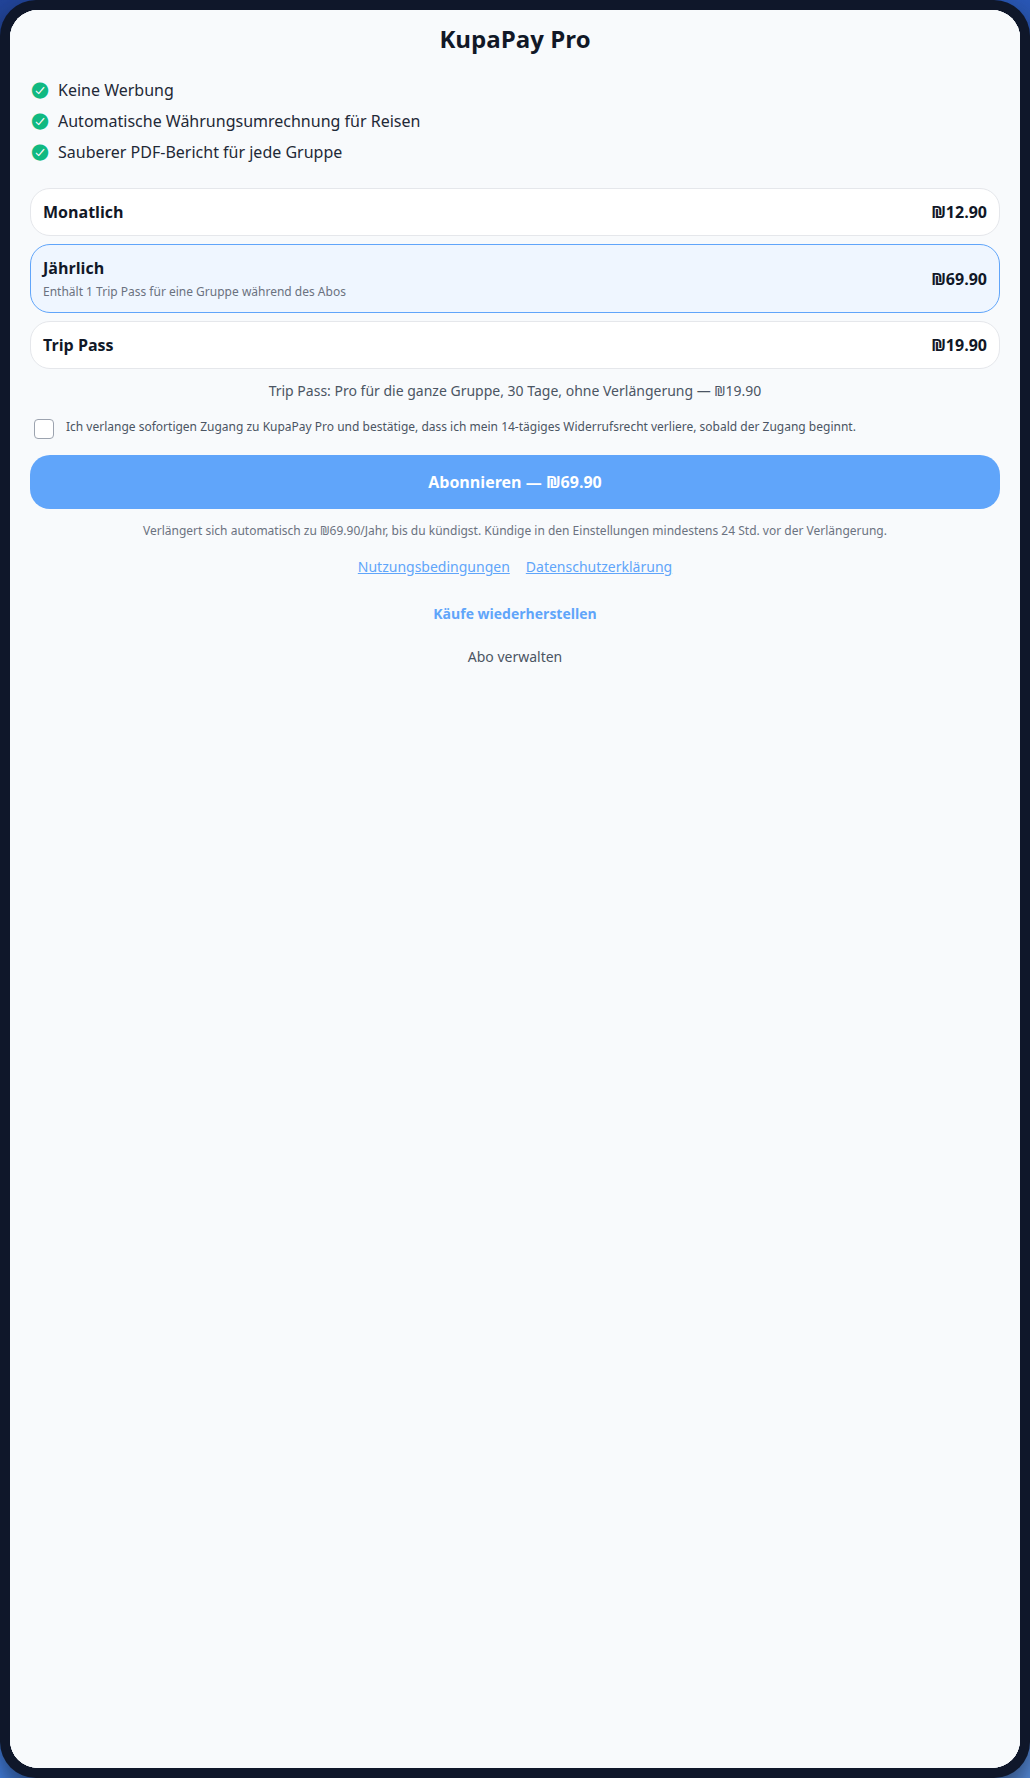
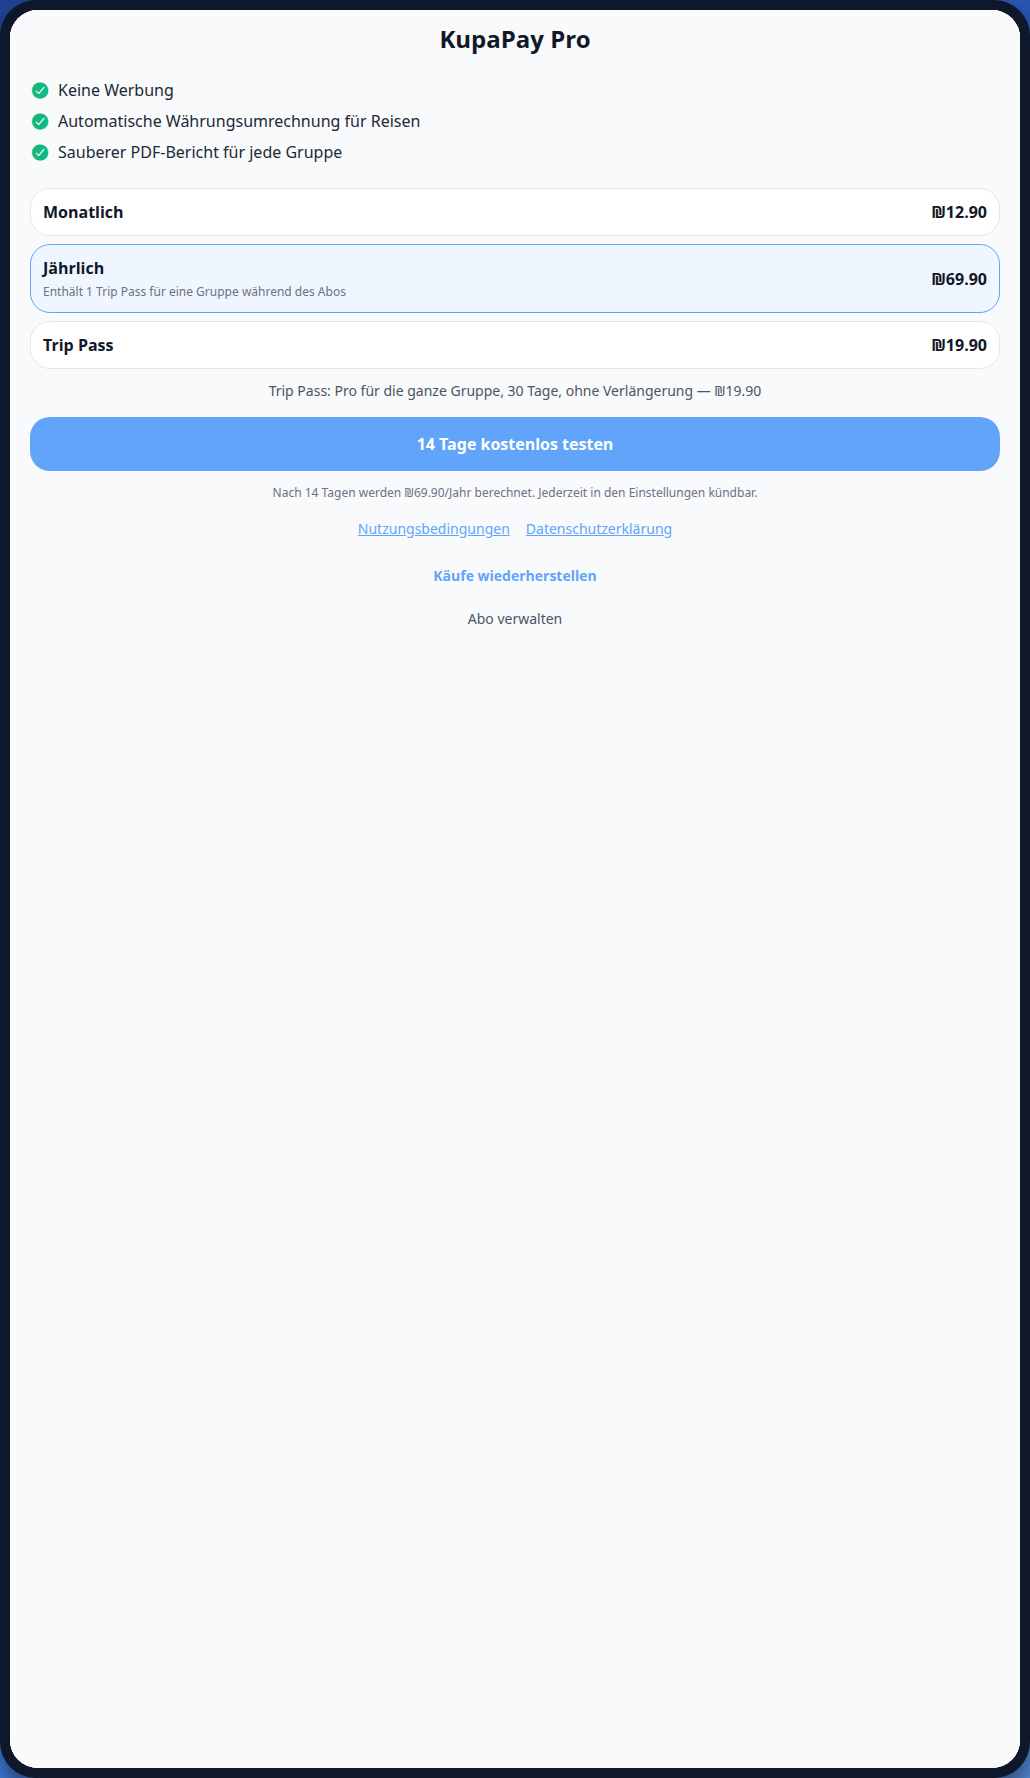
feat(pro): 14-day trial, remove EU waiver; ASC intro offers
- Paywall: drop EU withdrawal checkbox; CTA always enabled when offerings load
- Trial copy uses {{days}} from introPrice with 14-day fallback
- ASC workflow: asc-set-subscription-intro-offers.mjs (TWO_WEEKS FREE_TRIAL)
- Update iap-metadata review notes, whats-new, paywall review PNGs
- Docs: Play 14-day base-plan note in KUPAPAY_PRO_SETUP.md

Changed region(s): [[0.0311, 0.2165, 0.9942, 0.3712]]

diff --git a/cost-share-app/apps/mobile/components/pro/ProPaywallContent.tsx b/cost-share-app/apps/mobile/components/pro/ProPaywallContent.tsx
@@ -28,7 +28,7 @@ import {
     restorePurchases,
     type IntroEligibilityMap,
 } from '../../services/purchases.service';
-import { planShowsFreeTrial } from '../../lib/proTrialPaywall';
+import { introFreeTrialDaysForPackage, planShowsFreeTrial } from '../../lib/proTrialPaywall';
 import {
     fetchPaywallOfferings,
     reportPaywallLoadFailed,
@@ -82,8 +82,6 @@ export function ProPaywallContent({
     const [introEligibility, setIntroEligibility] = useState<IntroEligibilityMap | null>(null);
     const [loadFailedReason, setLoadFailedReason] = useState<PaywallLoadFailureReason | null>(null);
     const [loadAttempt, setLoadAttempt] = useState(0);
-    const [euDigitalAck, setEuDigitalAck] = useState(false);
-
     useEffect(() => {
         void logMonetizationEvent(featureKey, 'paywall_viewed');
         void captureProductEvent('paywall_viewed', { feature_key: featureKey, group_id: groupId ?? null });
@@ -190,6 +188,11 @@ export function ProPaywallContent({
         subscriptionPlanKey != null &&
         planShowsFreeTrial(subscriptionPlanKey, packages, introEligibility);
 
+    const trialDays = useMemo(() => {
+        if (!showFreeTrial || !selectedPackage) return null;
+        return introFreeTrialDaysForPackage(selectedPackage);
+    }, [selectedPackage, showFreeTrial]);
+
     const disclosureText = useMemo(() => {
         if (loadFailedReason) {
             return '';
@@ -199,11 +202,11 @@ export function ProPaywallContent({
         }
         const price = priceLabel(selectedPackage);
         const period = t(subscriptionPeriodKey(selectedPackage));
-        if (showFreeTrial) {
-            return t('pro.paywall.trialRenewalDisclosure', { price, period });
+        if (showFreeTrial && trialDays != null) {
+            return t('pro.paywall.trialRenewalDisclosure', { price, period, days: trialDays });
         }
         return t('pro.paywall.renewalDisclosure', { price, period });
-    }, [loadFailedReason, selected, selectedPackage, showFreeTrial, t]);
+    }, [loadFailedReason, selected, selectedPackage, showFreeTrial, t, trialDays]);
 
     const purchaseCta = useMemo(() => {
         if (!selectedPackage) return t('pro.paywall.subscribe');
@@ -211,11 +214,11 @@ export function ProPaywallContent({
         if (selected === 'trip_pass') {
             return t('pro.paywall.buyTripPass', { price });
         }
-        if (showFreeTrial) {
-            return t('pro.paywall.tryFreeTrialCta');
+        if (showFreeTrial && trialDays != null) {
+            return t('pro.paywall.tryFreeTrialCta', { days: trialDays });
         }
         return t('pro.paywall.subscribeAtPrice', { price });
-    }, [selected, selectedPackage, showFreeTrial, t]);
+    }, [selected, selectedPackage, showFreeTrial, t, trialDays]);
 
     const planPickerSection = useMemo(() => {
         if (loading) {
@@ -320,33 +323,13 @@ export function ProPaywallContent({
             {planPickerSection}
 
             <Pressable
-                onPress={() => setEuDigitalAck(v => !v)}
-                className="flex-row items-start gap-3 mb-4 px-1"
-                testID="paywall-eu-withdrawal-ack"
-                accessibilityRole="checkbox"
-                accessibilityState={{ checked: euDigitalAck }}
-            >
-                <View
-                    className={`mt-0.5 h-5 w-5 rounded border items-center justify-center ${euDigitalAck ? 'bg-primary border-primary' : 'border-gray-400 bg-white'}`}
-                >
-                    {euDigitalAck ? (
-                        <AppIcon name="checkmark" size={14} color="#fff" />
-                    ) : null}
-                </View>
-                <Text className="flex-1 text-xs text-gray-600 leading-5">
-                    {t('pro.paywall.euDigitalPurchaseAck')}
-                </Text>
-            </Pressable>
-
-            <Pressable
                 onPress={handlePurchase}
                 disabled={
                     busy ||
                     !storeConfigured ||
                     !selectedPackage ||
                     loading ||
-                    !!loadFailedReason ||
-                    !euDigitalAck
+                    !!loadFailedReason
                 }
                 className="bg-primary rounded-2xl py-4 items-center mb-3"
                 testID="paywall-purchase-btn"

diff --git a/cost-share-app/apps/mobile/__tests__/components/ProPaywallContent.test.tsx b/cost-share-app/apps/mobile/__tests__/components/ProPaywallContent.test.tsx
@@ -47,7 +47,11 @@ const purchaseMock = purchasePackage as jest.MockedFunction<typeof purchasePacka
 
 const mockPackage = {
     identifier: 'annual',
-    product: { identifier: 'kupapay_pro_yearly', priceString: '₪69.90' },
+    product: {
+        identifier: 'kupapay_pro_yearly',
+        priceString: '₪69.90',
+        introPrice: { price: 0, priceString: '₪0.00', periodNumberOfUnits: 2, periodUnit: 'WEEK' },
+    },
 } as const;
 
 describe('ProPaywallContent offerings load', () => {
@@ -69,28 +73,33 @@ describe('ProPaywallContent offerings load', () => {
         expect(queryByTestId('paywall-loading')).toBeNull();
     });
 
-    it('blocks purchase until EU digital withdrawal acknowledgement', async () => {
+    it('allows purchase without EU withdrawal acknowledgement', async () => {
         fetchMock.mockResolvedValue({
             status: 'ready',
             packages: {
-                monthly: { ...mockPackage, identifier: 'monthly' },
+                monthly: {
+                    ...mockPackage,
+                    identifier: 'monthly',
+                    product: { ...mockPackage.product, identifier: 'kupapay_pro_monthly' },
+                },
                 annual: mockPackage,
                 tripPass: null,
             },
-            introEligibility: {},
+            introEligibility: {
+                kupapay_pro_yearly: { status: 2 },
+            },
         });
         purchaseMock.mockResolvedValue({ ok: true });
 
-        const { getByTestId } = render(<ProPaywallContent featureKey="export_pdf" showTripPass={false} />);
+        const { getByTestId, queryByTestId } = render(
+            <ProPaywallContent featureKey="export_pdf" showTripPass={false} />,
+        );
 
         await waitFor(() => {
+            expect(queryByTestId('paywall-loading')).toBeNull();
             expect(getByTestId('paywall-purchase-btn')).toBeTruthy();
         });
 
-        fireEvent.press(getByTestId('paywall-purchase-btn'));
-        expect(purchaseMock).not.toHaveBeenCalled();
-
-        fireEvent.press(getByTestId('paywall-eu-withdrawal-ack'));
         fireEvent.press(getByTestId('paywall-purchase-btn'));
         await waitFor(() => {
             expect(purchaseMock).toHaveBeenCalled();

diff --git a/cost-share-app/apps/mobile/lib/__tests__/proTrialPaywall.test.ts b/cost-share-app/apps/mobile/lib/__tests__/proTrialPaywall.test.ts
@@ -1,5 +1,8 @@
 import {
+    DEFAULT_INTRO_FREE_TRIAL_DAYS,
     INTRO_ELIGIBILITY_ELIGIBLE,
+    introFreeTrialDaysForPackage,
+    introFreeTrialDaysFromIntroPrice,
     isProductIntroEligible,
     packageHasIntroFreeTrial,
     planShowsFreeTrial,
@@ -11,7 +14,7 @@ const pkgWithTrial = {
     product: {
         identifier: 'kupapay_pro_monthly',
         priceString: '₪12.90',
-        introPrice: { price: 0, priceString: '₪0.00', periodNumberOfUnits: 1, periodUnit: 'WEEK' },
+        introPrice: { price: 0, priceString: '₪0.00', periodNumberOfUnits: 2, periodUnit: 'WEEK' },
     },
 };
 
@@ -22,6 +25,27 @@ const pkgNoTrial = {
         priceString: '₪69.90',
     },
 };
+
+describe('introFreeTrialDaysFromIntroPrice', () => {
+    it('converts store intro periods to days', () => {
+        expect(
+            introFreeTrialDaysFromIntroPrice({
+                price: 0,
+                priceString: '₪0.00',
+                periodNumberOfUnits: 2,
+                periodUnit: 'WEEK',
+            }),
+        ).toBe(14);
+        expect(introFreeTrialDaysFromIntroPrice(null)).toBeNull();
+    });
+});
+
+describe('introFreeTrialDaysForPackage', () => {
+    it('uses intro price when present and default otherwise', () => {
+        expect(introFreeTrialDaysForPackage(pkgWithTrial)).toBe(14);
+        expect(introFreeTrialDaysForPackage(pkgNoTrial)).toBe(DEFAULT_INTRO_FREE_TRIAL_DAYS);
+    });
+});
 
 describe('packageHasIntroFreeTrial', () => {
     it('detects zero-price intro', () => {

diff --git a/cost-share-app/apps/mobile/lib/proTrialPaywall.ts b/cost-share-app/apps/mobile/lib/proTrialPaywall.ts
@@ -11,6 +11,32 @@ export type IntroEligibilityEntry = { status: number };
 
 export type IntroEligibilityMap = Record<string, IntroEligibilityEntry | undefined>;
 
+export const DEFAULT_INTRO_FREE_TRIAL_DAYS = 14;
+
+/** RevenueCat / StoreKit period units on introPrice. */
+const INTRO_PERIOD_DAYS: Record<string, number> = {
+    DAY: 1,
+    WEEK: 7,
+    MONTH: 30,
+    YEAR: 365,
+};
+
+export function introFreeTrialDaysFromIntroPrice(
+    introPrice: PurchasesPackageLike['product']['introPrice'],
+): number | null {
+    if (!introPrice || introPrice.price !== 0) return null;
+    const unitDays = INTRO_PERIOD_DAYS[introPrice.periodUnit.toUpperCase()];
+    if (!unitDays) return null;
+    const units = introPrice.periodNumberOfUnits;
+    if (!Number.isFinite(units) || units <= 0) return null;
+    return unitDays * units;
+}
+
+export function introFreeTrialDaysForPackage(pkg: PurchasesPackageLike | null): number {
+    const fromStore = introFreeTrialDaysFromIntroPrice(pkg?.product.introPrice ?? null);
+    return fromStore ?? DEFAULT_INTRO_FREE_TRIAL_DAYS;
+}
+
 export function packageHasIntroFreeTrial(pkg: PurchasesPackageLike | null): boolean {
     if (!pkg?.product.introPrice) return false;
     return pkg.product.introPrice.price === 0;

diff --git a/cost-share-app/apps/mobile/services/purchases.service.web.ts b/cost-share-app/apps/mobile/services/purchases.service.web.ts
@@ -31,14 +31,24 @@ export async function waitForPurchasesReady(): Promise<boolean> {
 export async function logOutPurchases(): Promise<void> {}
 
 function capturePackages(): PaywallPackages {
-    const mk = (id: string, price: string): PurchasesPackageLike => ({
+    const introTwoWeeks = {
+        price: 0,
+        priceString: '₪0.00',
+        periodNumberOfUnits: 2,
+        periodUnit: 'WEEK',
+    };
+    const mk = (id: string, price: string, withTrial: boolean): PurchasesPackageLike => ({
         identifier: id,
-        product: { identifier: id, priceString: price },
+        product: {
+            identifier: id,
+            priceString: price,
+            introPrice: withTrial ? introTwoWeeks : undefined,
+        },
     });
     return {
-        monthly: mk('kupapay_pro_monthly', '₪12.90'),
-        annual: mk('kupapay_pro_yearly', '₪69.90'),
-        tripPass: mk('kupapay_trip_pass', '₪19.90'),
+        monthly: mk('kupapay_pro_monthly', '₪12.90', true),
+        annual: mk('kupapay_pro_yearly', '₪69.90', true),
+        tripPass: mk('kupapay_trip_pass', '₪19.90', false),
     };
 }
 

diff --git a/docs/ASC_IOS_RELEASE_PREP.md b/docs/ASC_IOS_RELEASE_PREP.md
@@ -6,10 +6,11 @@ Uses the same secrets as [TestFlight iOS](TESTFLIGHT_GITHUB_ACTIONS.md): `ASC_AP
 
 ## What it does
 
-1. **IAP metadata** — `store/asc/iap-metadata.json` → `scripts/asc-update-iap-metadata.mjs` (localizations, review notes, paywall review screenshot).
-2. **Prices** — `scripts/asc-verify-iap-prices.mjs` checks ILS amounts against `expectedPriceILS`.
-3. **Screenshots** — Maestro + simulator when possible; repo assets under `store/screenshots/ios/<locale>/{6.9,6.5,ipad}/`. Source captions: `store/asc/screenshot-captions.json`.
-4. **Version** — `store/asc/whats-new.json` (SSOT `packages/shared/version.json`) → create/prepare version, attach latest **VALID** build, fill What's New.
+1. **Intro offers** — `scripts/asc-set-subscription-intro-offers.mjs` sets **TWO_WEEKS** `FREE_TRIAL` on monthly/yearly for all subscription territories.
+2. **IAP metadata** — `store/asc/iap-metadata.json` → `scripts/asc-update-iap-metadata.mjs` (localizations, review notes, paywall review screenshot).
+3. **Prices** — `scripts/asc-verify-iap-prices.mjs` checks ILS amounts against `expectedPriceILS`.
+4. **Screenshots** — Maestro + simulator when possible; repo assets under `store/screenshots/ios/<locale>/{6.9,6.5,ipad}/`. Source captions: `store/asc/screenshot-captions.json`.
+5. **Version** — `store/asc/whats-new.json` (SSOT `packages/shared/version.json`) → create/prepare version, attach latest **VALID** build, fill What's New.
 
 ## Local commands
 
@@ -19,7 +20,7 @@ From `cost-share-app/apps/mobile` (after `npm ci` at `cost-share-app`):
 bash scripts/ci-write-asc-key.sh   # needs ASC_API_KEY_P8 in env
 export ASC_API_KEY_ID=… ASC_API_KEY_ISSUER_ID=… ASC_API_KEY_PATH=./asc-api-key.p8
 
-node scripts/generate-iap-review-screenshot.mjs
+node scripts/asc-set-subscription-intro-offers.mjs
 node scripts/asc-update-iap-metadata.mjs
 node scripts/asc-upload-screenshots.mjs
 node scripts/asc-prepare-app-version.mjs

diff --git a/docs/KUPAPAY_PRO_SETUP.md b/docs/KUPAPAY_PRO_SETUP.md
@@ -68,7 +68,11 @@ EXPO_PUBLIC_REVENUECAT_ANDROID_KEY=goog_...
 
 Paywall shows localized price/period from StoreKit via RevenueCat, auto-renew disclosure, cancel instructions, Terms + Privacy links, and Restore Purchases. Settings includes **Manage subscription** (opens platform subscription management).
 
-When monthly/yearly products include a **7-day free trial**, the paywall uses `checkTrialOrIntroductoryPriceEligibility` for the trial CTA and Apple-required post-trial price copy. After a trial starts, the app schedules a **local notification** two days before trial end and registers `profiles.pro_trial_ends_at` for a server fallback.
+When monthly/yearly products include a **14-day free trial**, the paywall uses `checkTrialOrIntroductoryPriceEligibility` for the trial CTA and Apple-required post-trial price copy. Trial length in the UI is derived from the store intro offer (`package.product.introPrice`) when available, with **14 days** as the fallback. After a trial starts, the app schedules a **local notification** two days before trial end and registers `profiles.pro_trial_ends_at` for a server fallback.
+
+### Google Play (manual)
+
+Configure the **base-plan free trial** on `kupapay_pro_monthly` and `kupapay_pro_yearly` to **14 days** in Play Console (Offers → free trial). Apple/Google are merchant of record; the app does not show an EU withdrawal waiver checkbox.
 
 ### Trial reminder cron (server fallback)
 

diff --git a/docs/PRO_FEATURES_PROPOSAL.md b/docs/PRO_FEATURES_PROPOSAL.md
@@ -51,6 +51,6 @@ Last updated: 2026-10-15. Scope: `cost-share-app` mobile (RevenueCat entitlement
 
 ## Free trial (App Store)
 
-- Products `kupapay_pro_monthly` / `kupapay_pro_yearly`: 7-day intro offer (App Store Connect).
+- Products `kupapay_pro_monthly` / `kupapay_pro_yearly`: 14-day intro offer (App Store Connect / Play base plan).
 - Paywall: eligibility via `checkTrialOrIntroductoryPriceEligibility`, localized CTA + Apple disclosure.
 - Reminder: local notification 2 days before trial end; server fallback `pro-trial-reminder-dispatch` (daily cron + `PUSH_WEBHOOK_SECRET`).
